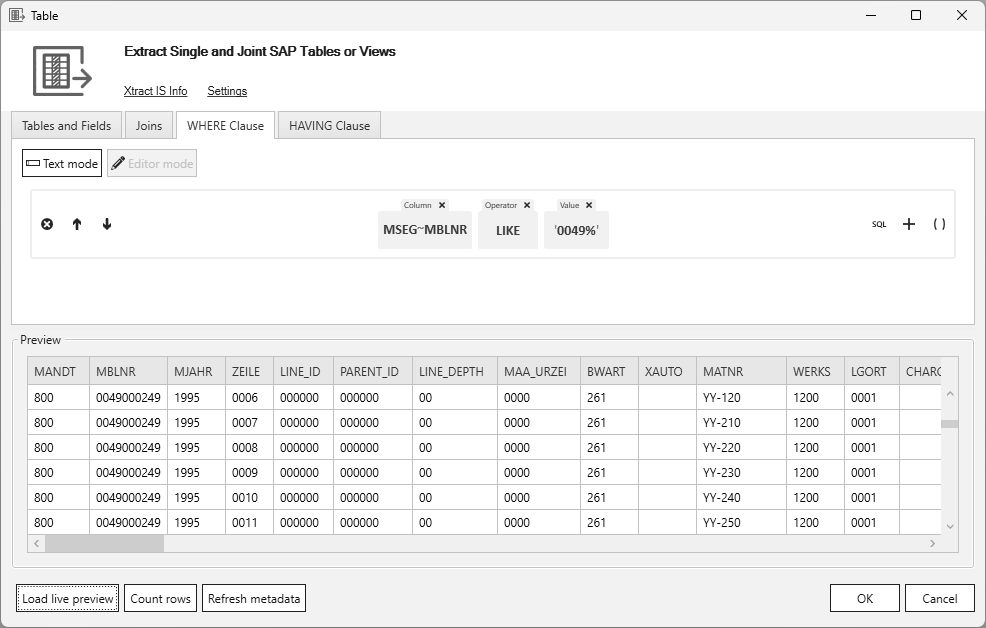
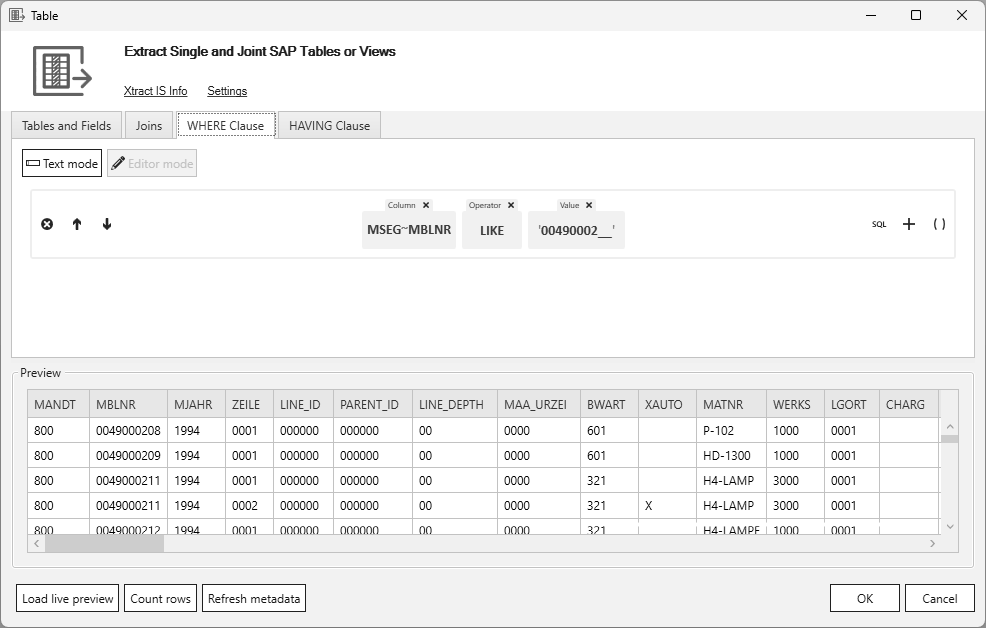
small changes

diff --git a/includes/articles/report/skip-rows-in-reports.md b/includes/articles/report/skip-rows-in-reports.md
@@ -25,11 +25,11 @@ This can be used to remove header rows that are repeated in the output body of r
 In the depicted example, the report RFITEMGL contains rows that total the content of the rows before. 
 These rows are marked with an * symbol: <br>
 
-=== "Extracted report without Row Skip Patterns"
+=== "Report without Row Skip Patterns"
 	
 	![report-no-skip-rows](site:assets/images/articles/report/report-no-skip-rows.png){:class="img-responsive"}
 
-=== "Extracted report with Row Skip Patterns"	
+=== "Report with Row Skip Patterns"	
 	
 	![report-no-skip-rows](site:assets/images/articles/report/report-skip-rows.png)
 
@@ -41,7 +41,7 @@ To remove all rows that contain the * symbol, follow the instructions below:
 3. Click {{ settingsBtn }}. The window "Extraction Settings" open.<br>
 ![report-no-skip-rows](site:assets/images/articles/report/report-skip-rows-settings.png)
 4. Enter a **Row skip pattern**. To process special symbols, add `\`before the symbol, e.g., to remove rows that contain the sum symbol * , enter `\*`. 
-5. Click **[OK]** to close the extraction settings. 
+5. Click **[OK]** to close the {{ settings }}. 
 5. Click **[OK]** to save the extraction. Note that the live preview of the report component does not include the **Row skip pattern** option. 
 **Row skip pattern** is only executed when running the extraction.
 6. Run the extraction. 

diff --git a/includes/articles/bapi/xtract-is-uploading-cats-data.md b/includes/articles/bapi/xtract-is-uploading-cats-data.md
@@ -5,13 +5,10 @@ The following article shows how to upload CATS data from an SQL server table usi
 
 The BAPI BAPI_CATIMESHEETMGR_INSERT creates Time Sheet entries in SAP.
 
+- Input: Relevant import parameters are PROFILE and TESTRUN and the table CATSRECORDS_IN.  
+- Output: The results are available in the tables CATSRECORDS_OUT and RETURN. <br>
+The RETURN table contains different types of messages, e.g., warnings, information, errors, etc.  
 
-- Input:<br>
-Relevant import parameters are PROFILE and TESTRUN and the table CATSRECORDS_IN. 
-
-- Output:<br>
-The results are available in the tables CATSRECORDS_OUT and RETURN. <br>
-The RETURN table contains different types of messages, e.g., warnings, information, errors, etc. 
 
 #### Troubleshooting
 If the input records do not have any errors, the table CATSRECORDS_OUT are populated with the same number of input records, otherwise it does not contain any entries. <br>

diff --git a/includes/articles/report/create-the-custom-authority-object-z-ts-prog.md b/includes/articles/report/create-the-custom-authority-object-z-ts-prog.md
@@ -12,13 +12,14 @@ The access to reports is granted based on the name of the report.
 2. Expand the *Create* menu and click **[Authorization Object]**. The window "Create Authorization Object" opens.<br>
 ![report-authorization-object](site:assets/images/articles/report/sap-authority-object.png)
 3. Enter the following values:<br>
-Object: Z_TS_PRO<br>
-Text: Theobald Software Report Authorization<br>
+**Object:** Z_TS_PRO<br>
+**Text:** Theobald Software Report Authorization<br>
 ![report-create-authorization-object](site:assets/images/articles/report/sap-create-authorization-object.png)
 4. Click **[Continue]** to enable editing of the section *Authorization fields*.
 5. Manually enter S_NAME as the first entry in *Authorization fields*. 
 6. Click **[Save]** to save the authorization object.
 
+*****
 
 #### Related Links
 - [Authorize Access to Reports via Authorization Groups](./authorize-access-to-specific-reports)

diff --git a/includes/articles/table/like-operand-where-clause.md b/includes/articles/table/like-operand-where-clause.md
@@ -16,7 +16,7 @@ This also applies in particular to operands of the type string with trailing bla
 | `MSEG~MBLNR LIKE '0049%'`|Filters all records of the table column MSEG~MBLNR that return the Number of Material Document starting with the value *0049*.|
 | `BKPF~BUKRS LIKE '__1_'` | Filters all records that have a *1* in the third digit of the value for the company code (BKPF~BUKRS).| 
 
-=== "`MSEG~MJAHR LIKE '20__'`"
+=== "`MSEG~MJAHR LIKE '00490002'`"
 
 	![like_](../assets/images/articles/table/like_operator.png){:class="img-responsive"}
 
@@ -30,5 +30,5 @@ This also applies in particular to operands of the type string with trailing bla
 
 
 ****
-### Related Links
+#### Related Links
 - [SAP Documentation: Open SQL - Operands and Expressions - LIKE ](https://help.sap.com/doc/abapdocu_752_index_htm/7.52/en-US/abenwhere_logexp_like.htm)

diff --git a/includes/articles/bapi/xtract-is-how-to-post-data-in-sap.md b/includes/articles/bapi/xtract-is-how-to-post-data-in-sap.md
@@ -1,5 +1,5 @@
 
-The following article shows how to use the {{ bapi }} {{ component }} to write products data to SAP.<br>
+The following article shows how to use the {{ bapi }} {{ component }} to write product data to SAP.<br>
 The depicted example uses the custom function module Z_ECS_PRODUCT_CREATE_MULTI to add new products to SAP.
 A table that contains the product information and is stored on an SQL Server is used as input for the function module.
 

diff --git a/projects/xtract-is/docs/knowledge-base/upload-cats-data-to-sap.md b/projects/xtract-is/docs/knowledge-base/upload-cats-data-to-sap.md
@@ -1,0 +1,6 @@
+---
+title: Upload CATS Data to SAP
+description: How to upload CATS data to SAP
+---
+
+{% include "articles/bapi/xtract-is-uploading-cats-data.md" %}

diff --git a/projects/xtract-is/docs/knowledge-base/index.md b/projects/xtract-is/docs/knowledge-base/index.md
@@ -11,6 +11,12 @@ hide:
 
 </div>
 
+
+
+
+{nav}
+
+
 ### SAP Connection
 
 <div class="mdx-columns" markdown>
